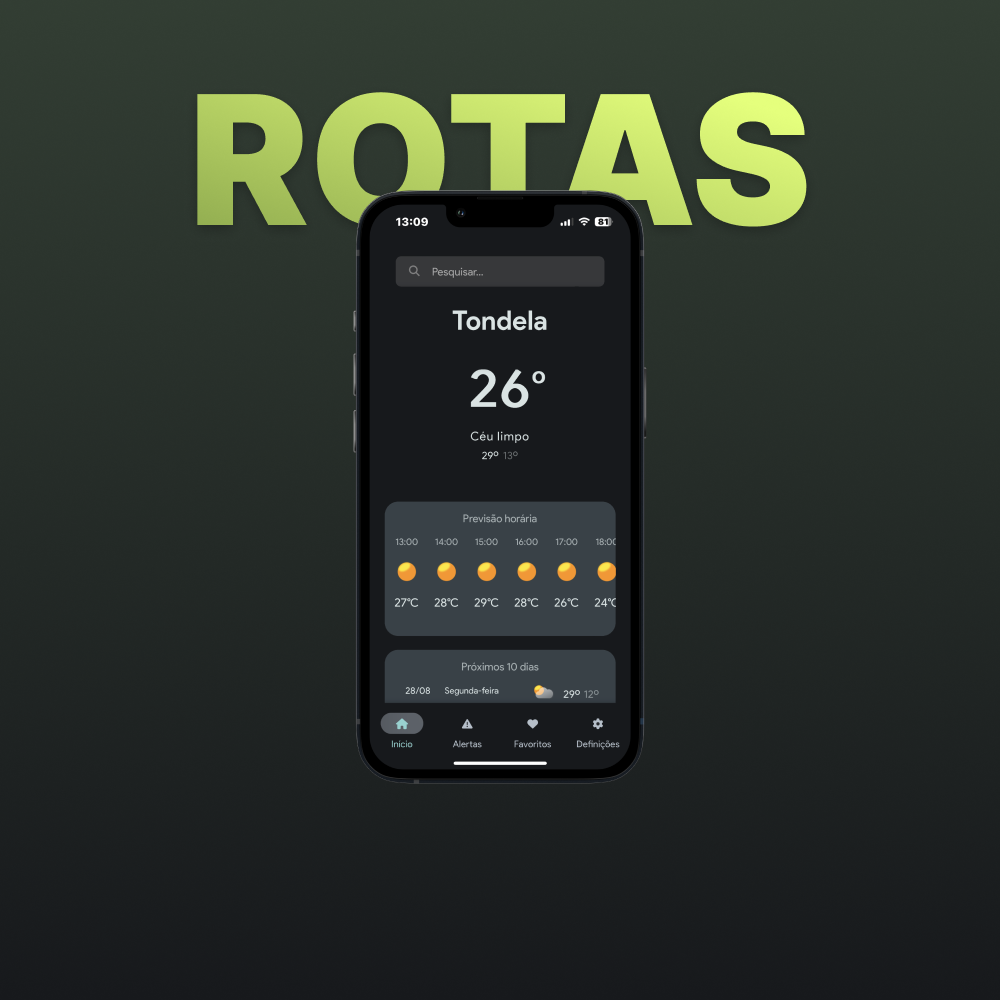
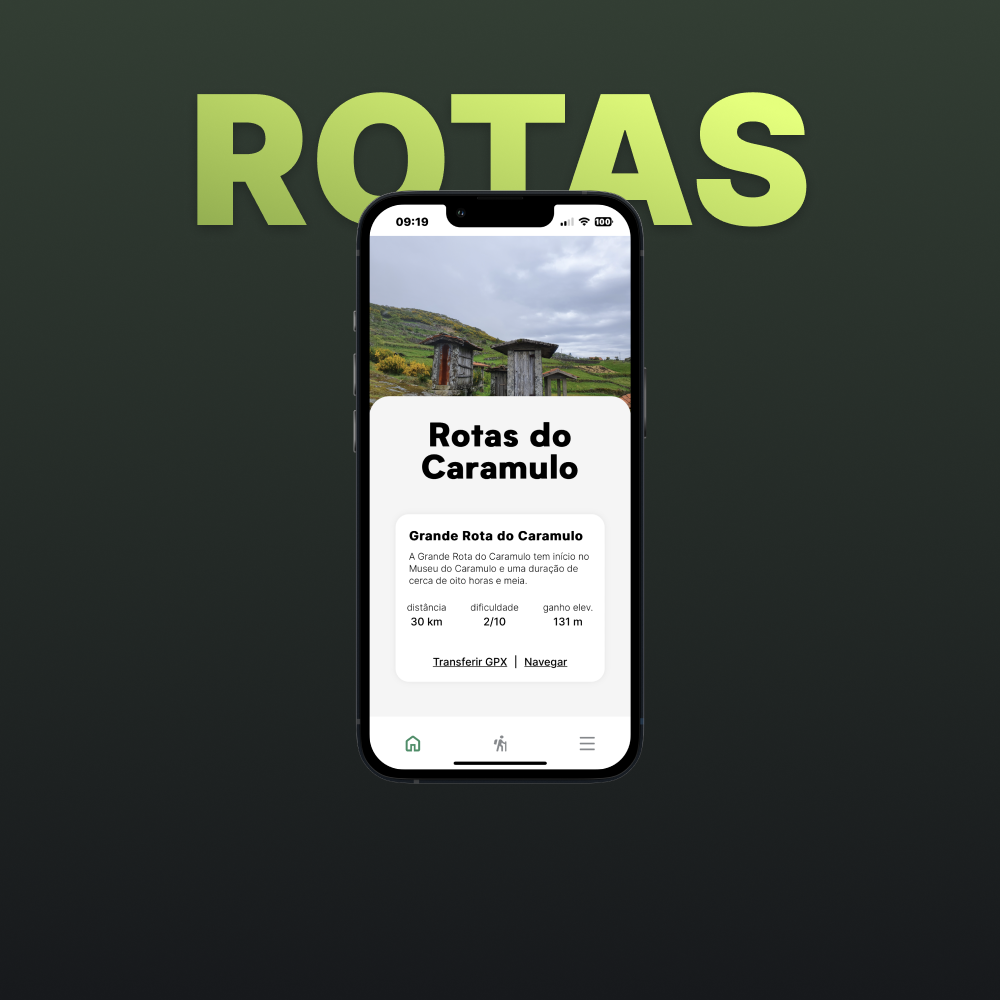
Design improvements

Changed region(s): [[0.372, 0.186, 0.651, 0.775]]

diff --git a/style2.css b/style2.css
@@ -36,6 +36,7 @@ body {
     font-size: 1rem;
     width: 100%;
     overflow-x: hidden;
+    scroll-behavior: smooth;
 }
 
 #footer {
@@ -141,7 +142,6 @@ body {
 .main {
     width:100%;
     height: 100%;
-    scroll-behavior: smooth;
     margin-top: -10px;
     margin-bottom: 100px ;
     overflow-x: hidden;
@@ -219,6 +219,7 @@ body {
 @media (max-width: 809px) {
     #projects-grid {
         grid-template-columns: repeat(1,minmax(200px,1fr));
+        grid-template-rows: repeat(2, 1fr);
         width: 100%;
         gap: 8px;
     }
